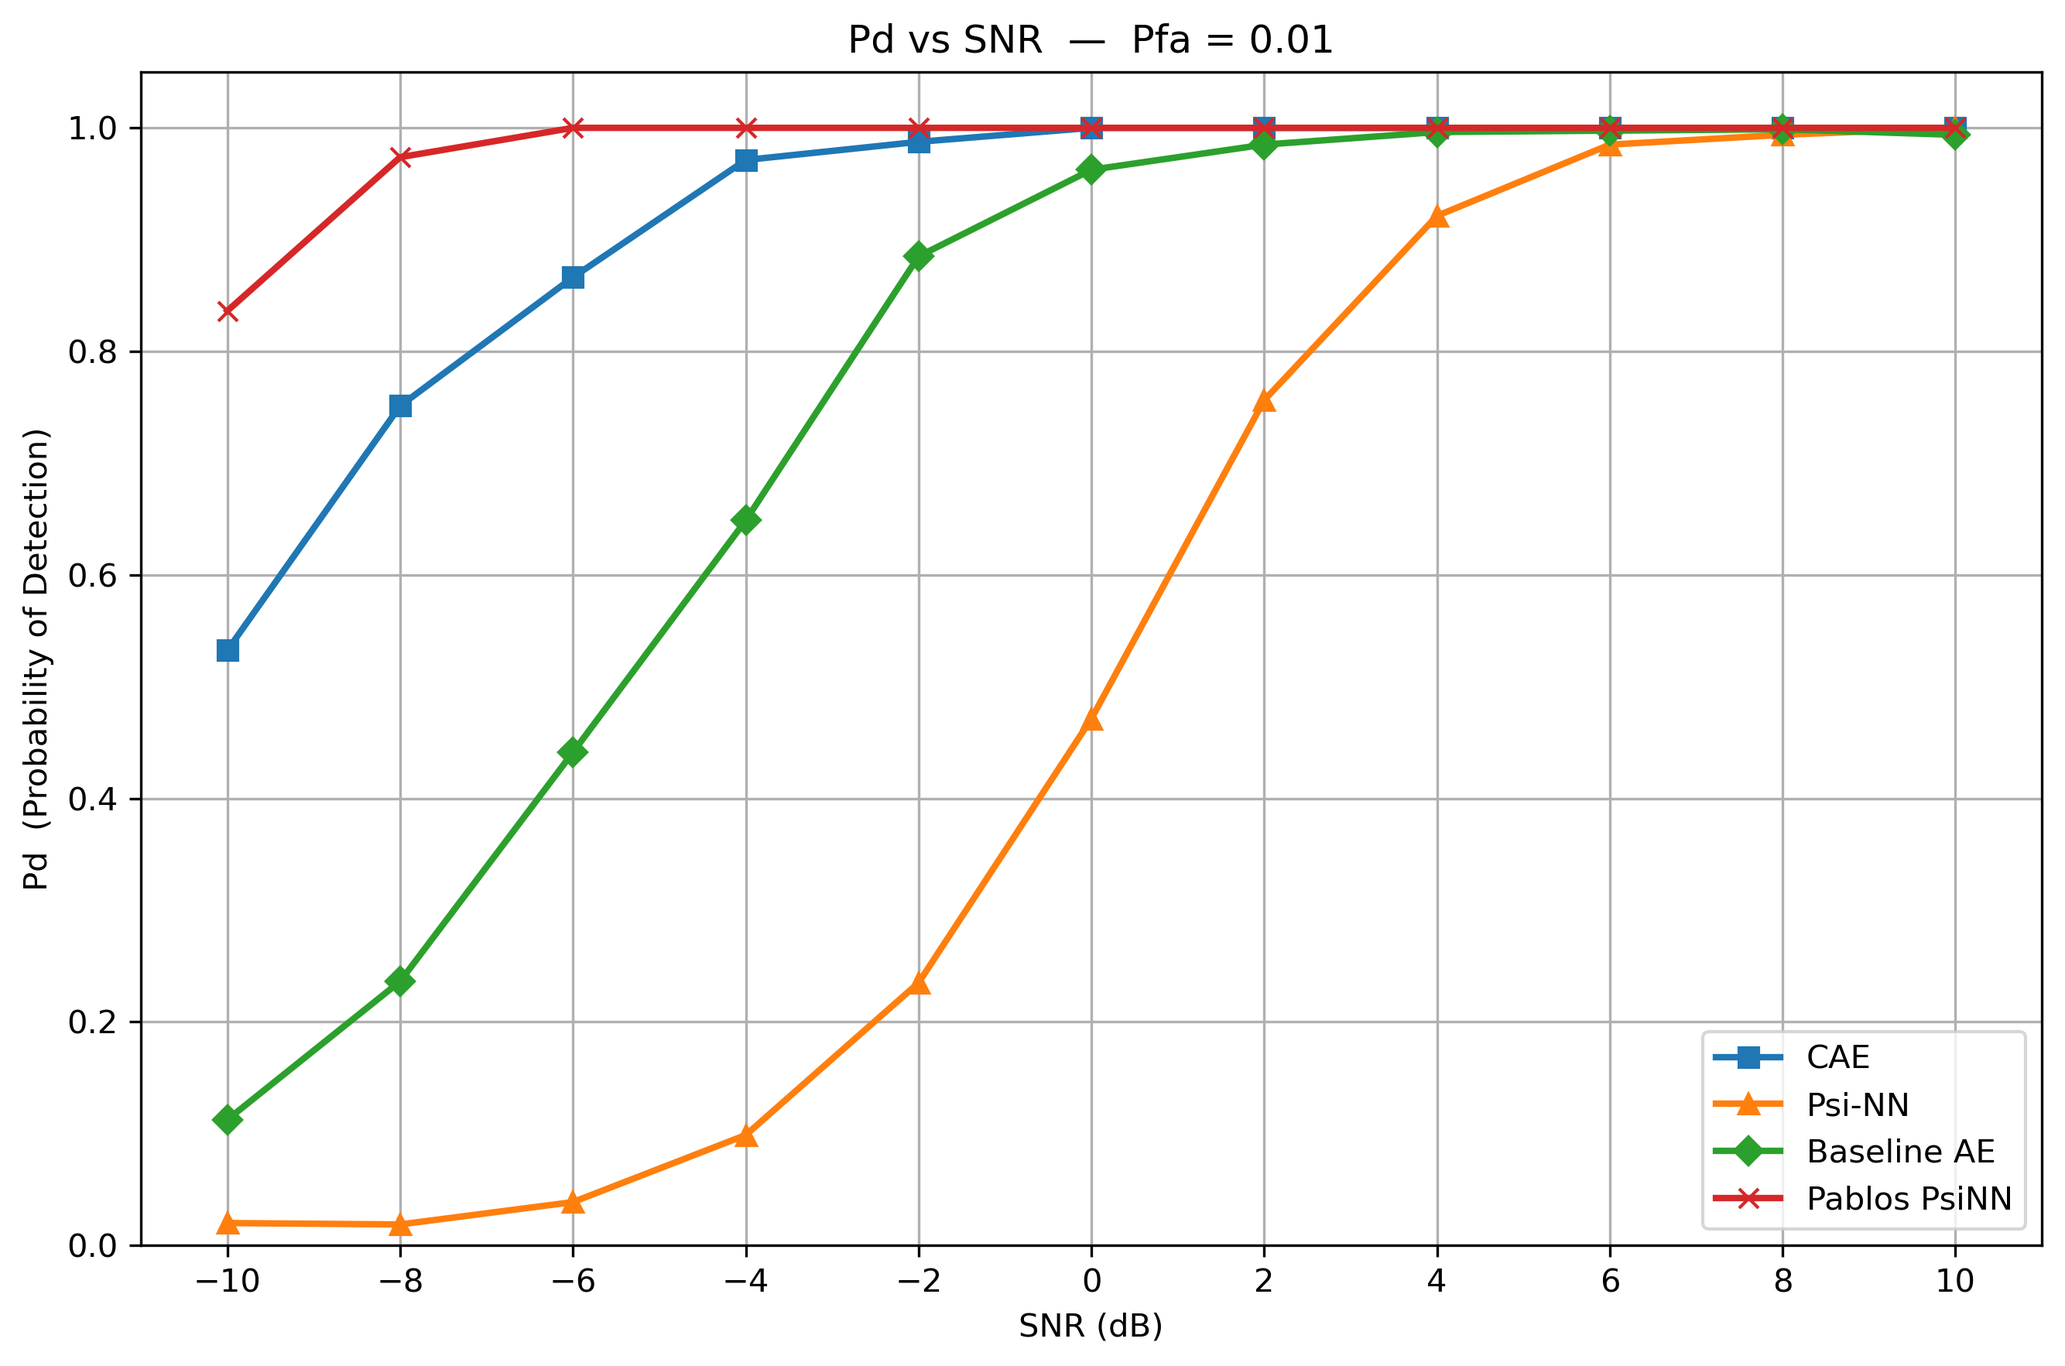
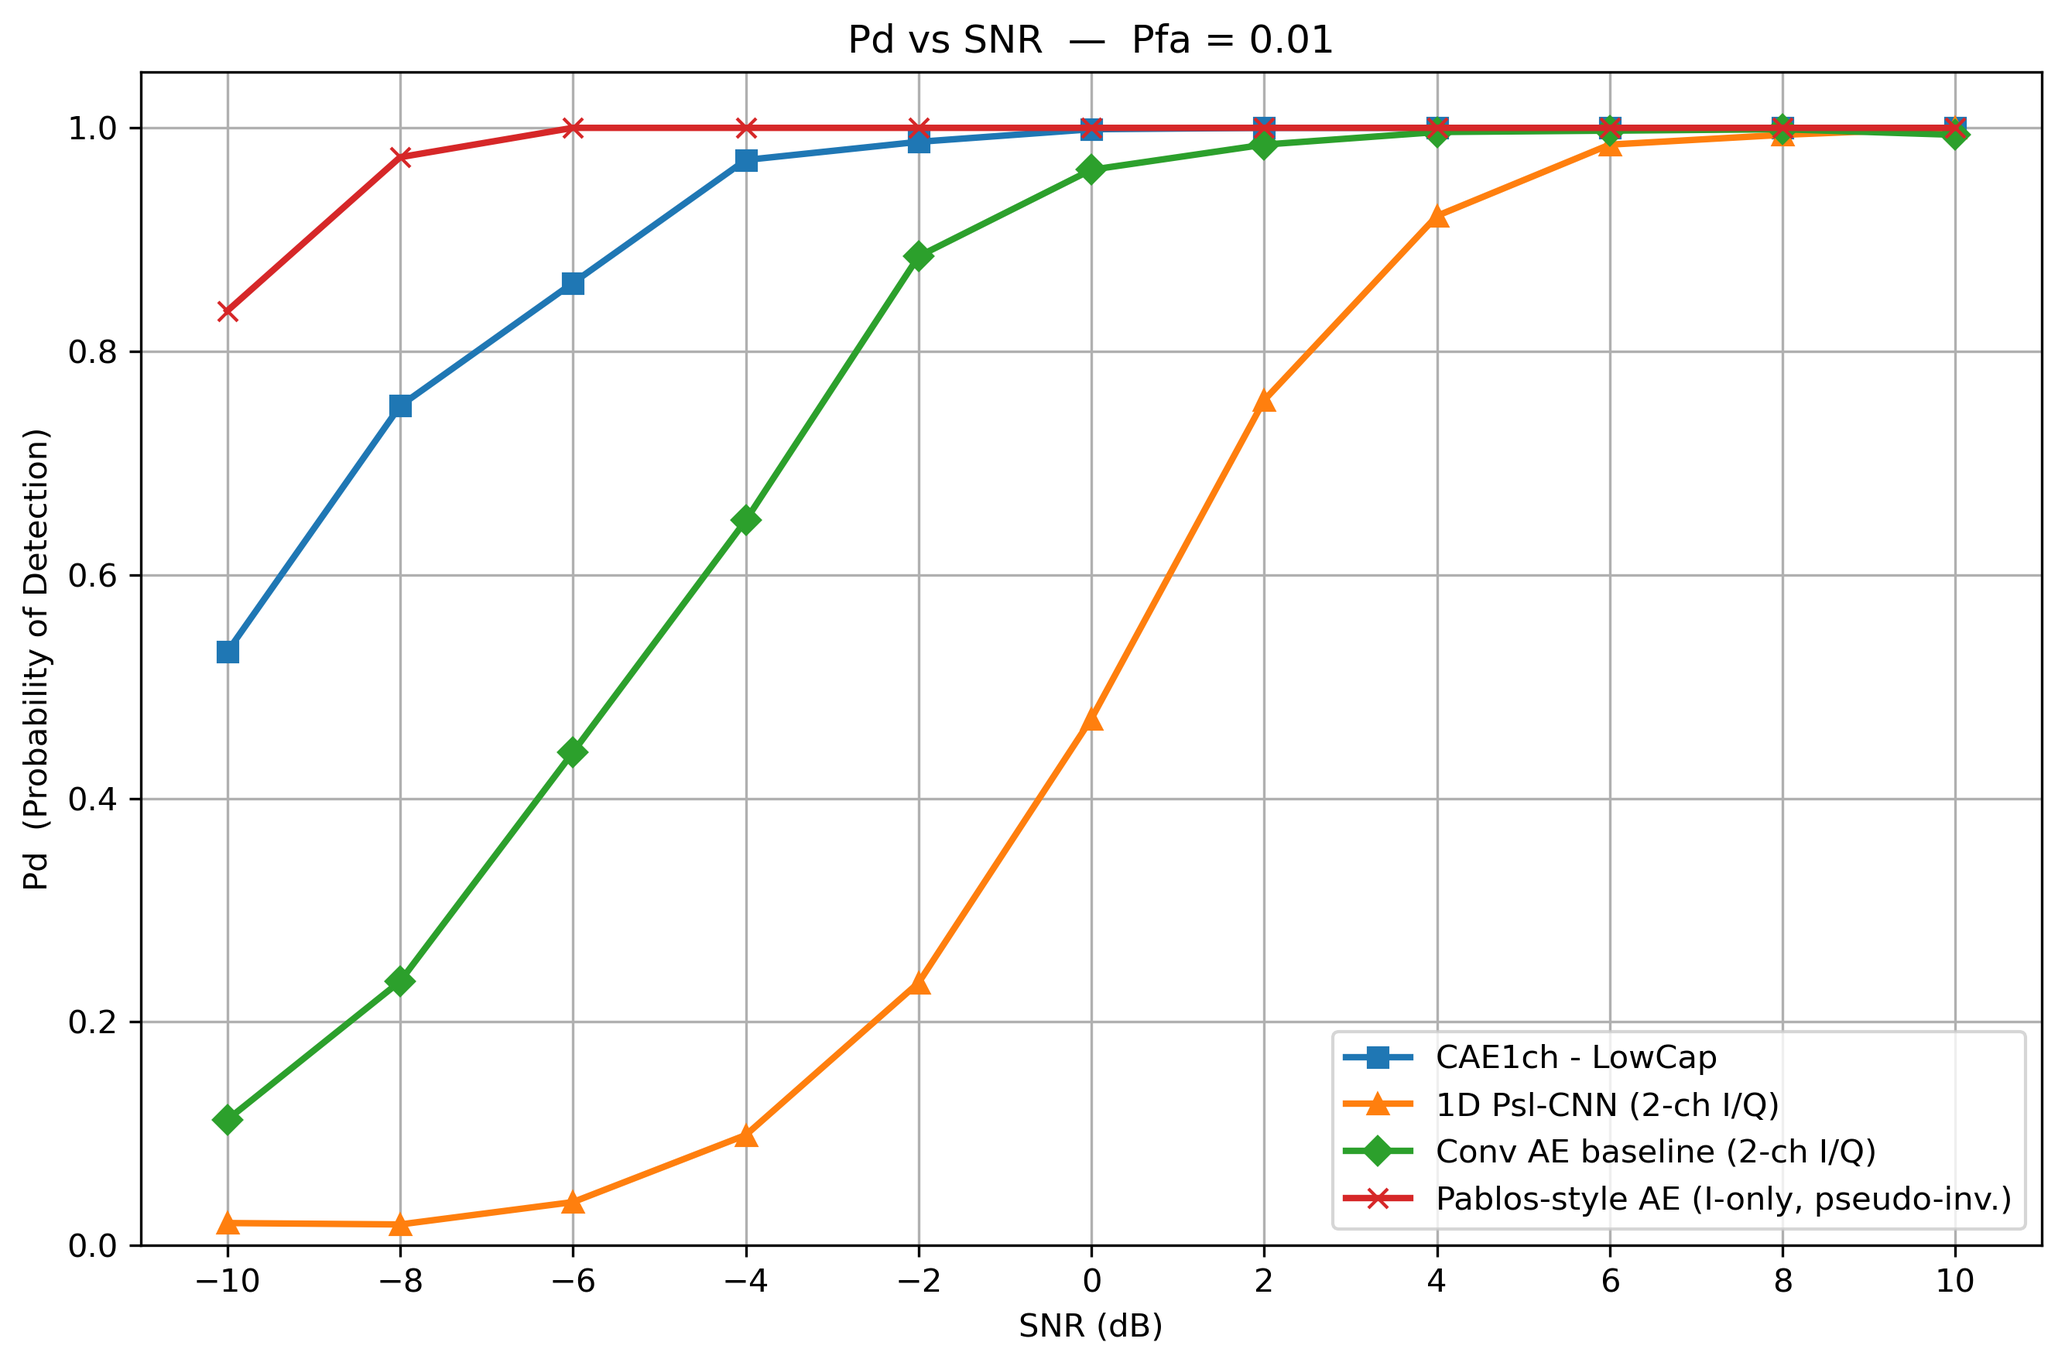
added verification script

Changed region(s): [[0.6533, 0.7479, 0.9644, 0.9037], [0.2489, 0.1558, 0.3111, 0.2493]]

diff --git a/verify_mod_auc_10db.py b/verify_mod_auc_10db.py
@@ -1,0 +1,142 @@
+"""
+Verify per-modulation AUC at -10 dB for the 1ch paper models:
+  CAE  = compare_A_lowcap-original.pth  (LowCapOriginal, Model A)
+  PsiNN = pablos_200epochs.pth          (AE_Pablos1d)
+
+Prints the AUC range at -10 dB for both models so the paper text can be checked.
+"""
+import os
+os.environ.setdefault("KMP_DUPLICATE_LIB_OK", "TRUE")
+
+import torch
+import numpy as np
+from sklearn.metrics import roc_curve, auc
+from scipy.stats import norm
+import torch.nn as nn
+import torch.nn.functional as F
+
+from psinn_layer_1d_pablos import AE_Pablos1d
+
+device = torch.device("cuda" if torch.cuda.is_available() else "cpu")
+
+# ── CAE model definition (LowCapOriginal = Model A) ───────────────────────────
+class LowCapOriginal(nn.Module):
+    def __init__(self):
+        super().__init__()
+        self.encoder = nn.Sequential(
+            nn.Conv1d(1,  16,  kernel_size=5, stride=2, padding=1),
+            nn.BatchNorm1d(16),  nn.LeakyReLU(0.2),
+            nn.Conv1d(16, 64,  kernel_size=5, stride=2, padding=1),
+            nn.BatchNorm1d(64),  nn.LeakyReLU(0.2),
+            nn.Conv1d(64, 128, kernel_size=5, stride=2, padding=1),
+            nn.BatchNorm1d(128), nn.LeakyReLU(0.2),
+        )
+        self.decoder = nn.Sequential(
+            nn.Upsample(scale_factor=2),
+            nn.Conv1d(128, 8,  kernel_size=5, stride=1, padding=1), nn.ReLU(),
+            nn.Upsample(scale_factor=2),
+            nn.Conv1d(8,   8,  kernel_size=5, stride=1, padding=1), nn.ReLU(),
+            nn.Upsample(scale_factor=2),
+            nn.Conv1d(8,   16, kernel_size=5, stride=1, padding=1), nn.ReLU(),
+            nn.Conv1d(16,  1,  kernel_size=5, stride=1, padding=1),
+        )
+
+    def forward(self, x):
+        out = self.decoder(self.encoder(x))
+        if out.shape[-1] != x.shape[-1]:
+            out = F.interpolate(out, size=x.shape[-1], mode='linear', align_corners=False)
+        return out
+
+
+# ── Load data ─────────────────────────────────────────────────────────────────
+test_dict   = torch.load("spectrum_data/test_data_full.pt", weights_only=False)
+test_data   = test_dict["data"][:, 0:1, :]        # 1ch (N, 1, 1024)
+test_labels = test_dict["labels"].numpy()
+test_snr    = test_dict["snrs"].numpy()
+test_mods   = np.array(test_dict["signals"])
+
+train_noise = torch.load("spectrum_data/train_noise.pt", weights_only=False)
+train_1ch   = train_noise[:, 0:1, :]
+
+# ── Load models ───────────────────────────────────────────────────────────────
+cae = LowCapOriginal().to(device)
+cae.load_state_dict(torch.load("spectrum_data/compare_A_lowcap-original.pth",
+                                weights_only=False, map_location=device))
+cae.eval()
+
+psinn = AE_Pablos1d(nf=16, k=5, use_dropout=True).to(device)
+psinn.load_state_dict(torch.load("spectrum_data/pablos_200epochs.pth",
+                                  weights_only=False, map_location=device))
+psinn.eval()
+
+
+# ── Beta computation ──────────────────────────────────────────────────────────
+def compute_beta(model, data, use_ae=False):
+    betas = []
+    with torch.no_grad():
+        for i in range(0, len(data), 256):
+            b = data[i:i+256].to(device)
+            recon = model.AE(b) if use_ae else model(b)
+            if recon.shape[-1] != b.shape[-1]:
+                recon = recon[..., :b.shape[-1]]
+            sse   = torch.sum((b - recon) ** 2, dim=[1, 2])
+            mean_x = torch.mean(b, dim=[1, 2], keepdim=True)
+            sst   = torch.sum((b - mean_x) ** 2, dim=[1, 2])
+            betas.append((1.0 - sse / (sst + 1e-8)).cpu())
+    return torch.cat(betas).numpy()
+
+
+# ── Thresholds from training noise ────────────────────────────────────────────
+beta_cae_train   = compute_beta(cae,   train_1ch, use_ae=False)
+beta_psinn_train = compute_beta(psinn, train_1ch, use_ae=True)
+
+pfa = 0.01
+gamma_cae   = np.mean(beta_cae_train)   + norm.ppf(1 - pfa) * np.std(beta_cae_train)
+gamma_psinn = np.mean(beta_psinn_train) + norm.ppf(1 - pfa) * np.std(beta_psinn_train)
+print(f"CAE   γ = {gamma_cae:.4f}")
+print(f"PsiNN γ = {gamma_psinn:.4f}")
+
+# ── Test beta scores ──────────────────────────────────────────────────────────
+beta_cae   = compute_beta(cae,   test_data, use_ae=False)
+beta_psinn = compute_beta(psinn, test_data, use_ae=True)
+
+# ── Per-modulation AUC at -10 dB ─────────────────────────────────────────────
+SNR_TARGET = -10
+snr_mask   = (test_snr == SNR_TARGET)
+
+modulations = ['bpsk', 'qpsk', '16qam', '32qam']
+
+print(f"\nPer-modulation AUC at SNR = {SNR_TARGET} dB  (Pfa = {pfa})")
+print(f"{'Modulation':<10}  {'CAE AUC':>9}  {'PsiNN AUC':>10}")
+print("─" * 35)
+
+cae_aucs, psinn_aucs = [], []
+
+for mod in modulations:
+    mask = snr_mask & ((test_mods == mod) | (test_labels == 0))
+    if mask.sum() == 0 or len(np.unique(test_labels[mask])) < 2:
+        print(f"{mod:<10}   N/A         N/A")
+        continue
+    fpr_c, tpr_c, _ = roc_curve(test_labels[mask], beta_cae[mask])
+    fpr_p, tpr_p, _ = roc_curve(test_labels[mask], beta_psinn[mask])
+    ac = auc(fpr_c, tpr_c)
+    ap = auc(fpr_p, tpr_p)
+    cae_aucs.append(ac)
+    psinn_aucs.append(ap)
+    print(f"{mod:<10}  {ac:>9.3f}  {ap:>10.3f}")
+
+print("─" * 35)
+print(f"{'Range':<10}  {min(cae_aucs):.3f}--{max(cae_aucs):.3f}  "
+      f"{min(psinn_aucs):.3f}--{max(psinn_aucs):.3f}")
+
+# ── Also print pooled modulation AUC (all SNR) for cross-check with Table 2 ──
+print(f"\nPooled per-modulation AUC (all SNR) — cross-check with Table 2")
+print(f"{'Modulation':<10}  {'CAE AUC':>9}  {'PsiNN AUC':>10}")
+print("─" * 35)
+for mod in modulations:
+    mask = (test_mods == mod) | (test_labels == 0)
+    if mask.sum() == 0 or len(np.unique(test_labels[mask])) < 2:
+        continue
+    fpr_c, tpr_c, _ = roc_curve(test_labels[mask], beta_cae[mask])
+    fpr_p, tpr_p, _ = roc_curve(test_labels[mask], beta_psinn[mask])
+    print(f"{mod:<10}  {auc(fpr_c, tpr_c):>9.3f}  {auc(fpr_p, tpr_p):>10.3f}")

diff --git a/plot_beta_distributions_composite.py b/plot_beta_distributions_composite.py
@@ -132,3 +132,124 @@ plt.subplots_adjust(bottom=0.18)
 plt.savefig("snr_distributions_all_-6dB.png", dpi=300, bbox_inches='tight')
 plt.close()
 print("Saved snr_distributions_all_-6dB.png")
+
+# 2-panel β histogram: CAE (LowCap-CAE1ch) and PsiNN (Psl-CAE1ch) only
+two_model_configs = [
+    ("LowCap-CAE1ch (CAE)",   b_cae, gamma_cae, "upper-tail"),
+    ("Psl-CAE1ch (PsiNN)",    b_pab, gamma_pab, "upper-tail"),
+]
+fig2, axes2 = plt.subplots(1, 2, figsize=(8, 3.8))
+for ax, (name, beta, gamma, tail) in zip(axes2, two_model_configs):
+    ax.hist(beta[h0], bins=40, alpha=0.65, color='steelblue',
+            label=r'$H_0$ (noise)', density=True)
+    ax.hist(beta[h1], bins=40, alpha=0.65, color='darkorange',
+            label=r'$H_1$ (signal)', density=True)
+    ax.axvline(gamma, color='red', linestyle='--', linewidth=1.5,
+               label=rf'$\gamma$  ($P_{{\rm fa}}={TARGET_PFA}$)')
+    ax.set_title(name, fontsize=10, fontweight='bold')
+    ax.set_xlabel(r'$\beta$ score', fontsize=9)
+    ax.set_ylabel('Density', fontsize=9)
+    ax.legend(fontsize=7.5, loc='upper left')
+    ax.grid(True, alpha=0.3)
+    ax.text(0.5, -0.20, f'({tail})', transform=ax.transAxes,
+            ha='center', fontsize=8, style='italic', color='gray')
+fig2.suptitle(
+    rf'$\beta$-score distributions at SNR $= {TARGET_SNR:+d}$\,dB'
+    rf'  ($P_{{\rm fa}} = {TARGET_PFA}$)',
+    fontsize=11
+)
+plt.tight_layout()
+plt.subplots_adjust(bottom=0.18)
+plt.savefig("beta_hist_cae_psinn.png", dpi=300, bbox_inches='tight')
+plt.close()
+print("Saved beta_hist_cae_psinn.png")
+
+# 2-panel MMSE (1-β) histogram: same two models
+fig3, axes3 = plt.subplots(1, 2, figsize=(8, 3.8))
+for ax, (name, beta, gamma, tail) in zip(axes3, two_model_configs):
+    mmse_h0 = 1.0 - beta[h0]
+    mmse_h1 = 1.0 - beta[h1]
+    mmse_thresh = 1.0 - gamma
+    ax.hist(mmse_h0, bins=40, alpha=0.65, color='steelblue',
+            label=r'$H_0$ (noise)', density=True)
+    ax.hist(mmse_h1, bins=40, alpha=0.65, color='darkorange',
+            label=r'$H_1$ (signal)', density=True)
+    ax.axvline(mmse_thresh, color='red', linestyle='--', linewidth=1.5,
+               label=rf'$\tau$  ($P_{{\rm fa}}={TARGET_PFA}$)')
+    ax.set_title(name, fontsize=10, fontweight='bold')
+    ax.set_xlabel(r'MMSE score ($1 - \beta$)', fontsize=9)
+    ax.set_ylabel('Density', fontsize=9)
+    ax.legend(fontsize=7.5, loc='upper right')
+    ax.grid(True, alpha=0.3)
+    ax.text(0.5, -0.20, '(lower-tail on MMSE = upper-tail on β)',
+            transform=ax.transAxes, ha='center', fontsize=7.5,
+            style='italic', color='gray')
+fig3.suptitle(
+    rf'MMSE ($1-\beta$) distributions at SNR $= {TARGET_SNR:+d}$\,dB'
+    rf'  ($P_{{\rm fa}} = {TARGET_PFA}$)',
+    fontsize=11
+)
+plt.tight_layout()
+plt.subplots_adjust(bottom=0.18)
+plt.savefig("mmse_hist_cae_psinn.png", dpi=300, bbox_inches='tight')
+plt.close()
+print("Saved mmse_hist_cae_psinn.png")
+
+# Multi-SNR 2×2 figures: one per SNR value (-6, 0, +6 dB)
+# Rows: β (top), MMSE (bottom)   Columns: LowCap-CAE1ch, Psl-CAE1ch
+for snr_val in [-6, 0, 6]:
+    snr_m = (snrs == snr_val)
+    h0_s  = snr_m & (labels == 0)
+    h1_s  = snr_m & (labels == 1)
+    if h0_s.sum() == 0 or h1_s.sum() == 0:
+        print(f"SNR={snr_val:+d} dB — not enough samples, skipping.")
+        continue
+
+    fig, axes = plt.subplots(2, 2, figsize=(10, 7))
+    fig.suptitle(
+        rf'$\beta$ and MMSE distributions at SNR $= {snr_val:+d}$\,dB'
+        rf'  ($P_{{\rm fa}} = {TARGET_PFA}$)',
+        fontsize=12
+    )
+
+    panel_labels = [['(a)', '(b)'], ['(c)', '(d)']]
+
+    for col, (name, beta, gamma) in enumerate([
+        ("LowCap-CAE1ch (CAE)",  b_cae, gamma_cae),
+        ("Psl-CAE1ch (PsiNN)",   b_pab, gamma_pab),
+    ]):
+        # β row
+        axes[0, col].hist(beta[h0_s], bins=40, alpha=0.65, color='steelblue',
+                          label=r'$H_0$ (noise)', density=True)
+        axes[0, col].hist(beta[h1_s], bins=40, alpha=0.65, color='darkorange',
+                          label=r'$H_1$ (signal)', density=True)
+        axes[0, col].axvline(gamma, color='red', linestyle='--', linewidth=1.5,
+                             label=rf'$\gamma$  ($P_{{\rm fa}}={TARGET_PFA}$)')
+        axes[0, col].set_title(name, fontsize=10, fontweight='bold')
+        axes[0, col].set_xlabel(r'$\beta$ score', fontsize=9)
+        axes[0, col].set_ylabel('Density', fontsize=9)
+        axes[0, col].legend(fontsize=7.5)
+        axes[0, col].grid(True, alpha=0.3)
+        axes[0, col].text(0.02, 0.97, panel_labels[0][col], transform=axes[0, col].transAxes,
+                          fontsize=11, fontweight='bold', va='top', ha='left')
+
+        # MMSE row (1 − β)
+        axes[1, col].hist(1 - beta[h0_s], bins=40, alpha=0.65, color='steelblue',
+                          label=r'$H_0$ (noise)', density=True)
+        axes[1, col].hist(1 - beta[h1_s], bins=40, alpha=0.65, color='darkorange',
+                          label=r'$H_1$ (signal)', density=True)
+        axes[1, col].axvline(1 - gamma, color='red', linestyle='--', linewidth=1.5,
+                             label=rf'$\tau$  ($P_{{\rm fa}}={TARGET_PFA}$)')
+        axes[1, col].set_title(name, fontsize=10, fontweight='bold')
+        axes[1, col].set_xlabel(r'MMSE ($1 - \beta$)', fontsize=9)
+        axes[1, col].set_ylabel('Density', fontsize=9)
+        axes[1, col].legend(fontsize=7.5)
+        axes[1, col].grid(True, alpha=0.3)
+        axes[1, col].text(0.02, 0.97, panel_labels[1][col], transform=axes[1, col].transAxes,
+                          fontsize=11, fontweight='bold', va='top', ha='left')
+
+    plt.tight_layout()
+    fname = f"beta_mmse_cae_psinn_{snr_val:+d}dB.png"
+    plt.savefig(fname, dpi=300, bbox_inches='tight')
+    plt.close()
+    print(f"Saved {fname}")

diff --git a/compare_lowcap_convae.py b/compare_lowcap_convae.py
@@ -239,9 +239,65 @@ def evaluate(model, train_noise, test_data, test_labels, test_snrs, device,
 
 # ── Main ──────────────────────────────────────────────────────────────────────
 
+import argparse
+import matplotlib.pyplot as plt
+
+
+def _plot_ablation(results, snr_points, out_path='ablation_pd_vs_snr.png'):
+    markers = ['o', 's', '^', 'D', 'x']
+    plt.figure(figsize=(8, 5.5))
+    for (tag, r), m in zip(results.items(), markers):
+        short = tag
+        plt.plot(snr_points, r['pd'], marker=m, linewidth=2, label=f'Variant {short}')
+    plt.xlabel('SNR (dB)')
+    plt.ylabel(r'$P_d$  ($\beta > \gamma$,  $H_1$)')
+    plt.title(r'Ablation: $P_d$ vs SNR — A→E architectural changes  ($P_{\rm fa}=0.01$)')
+    plt.xticks(snr_points)
+    plt.ylim(0, 1.05)
+    plt.grid(True, alpha=0.35)
+    plt.legend(fontsize=9)
+    plt.tight_layout()
+    plt.savefig(out_path, dpi=300, bbox_inches='tight')
+    plt.close()
+    print(f"Saved {out_path}")
+
+
 if __name__ == '__main__':
+    parser = argparse.ArgumentParser()
+    parser.add_argument('--plot-only', action='store_true',
+                        help='Load saved weights and regenerate ablation_pd_vs_snr.png without retraining')
+    args = parser.parse_args()
+
     device = torch.device('cuda' if torch.cuda.is_available() else 'cpu')
     print(f"Device: {device}\n")
+
+    if args.plot_only:
+        # Load data and evaluate saved checkpoints without retraining
+        train_2ch = torch.load('spectrum_data/train_noise.pt', weights_only=False)
+        train_1ch = train_2ch[:, 0:1, :]
+        test_dict   = torch.load('spectrum_data/test_data_full.pt', weights_only=False)
+        test_2ch    = test_dict['data']
+        test_1ch    = test_2ch[:, 0:1, :]
+        test_labels = test_dict['labels'].numpy()
+        test_snrs   = test_dict['snrs'].numpy()
+
+        ckpt_map = {
+            'A': ('spectrum_data/compare_A_lowcap-original.pth', LowCapOriginal(), train_1ch, test_1ch),
+            'B': ('spectrum_data/compare_B_lowcap-adam.pth',     LowCapOriginal(), train_1ch, test_1ch),
+            'C': ('spectrum_data/compare_C_lowcap-symdec.pth',   LowCapSymDec(),   train_1ch, test_1ch),
+            'D': ('spectrum_data/compare_D_convae-1ch.pth',      ConvAE(in_ch=1),  train_1ch, test_1ch),
+            'E': ('spectrum_data/compare_E_convae-2ch.pth',      ConvAE(in_ch=2),  train_2ch, test_2ch),
+        }
+        snr_points = [-10, -8, -6, -4, -2, 0, 2, 4, 6, 8, 10]
+        results_plot = {}
+        for tag, (ckpt, model, tr_noise, te_data) in ckpt_map.items():
+            model.load_state_dict(torch.load(ckpt, weights_only=False, map_location=device))
+            model = model.to(device)
+            res = evaluate(model, tr_noise, te_data, test_labels, test_snrs, device)
+            results_plot[tag] = res
+            print(f"Variant {tag}: AUC={res['auc']:.4f}  gamma={res['gamma']:.4f}")
+        _plot_ablation(results_plot, snr_points)
+        import sys; sys.exit(0)
 
     # Data
     train_2ch = torch.load('spectrum_data/train_noise.pt', weights_only=False)
@@ -335,3 +391,5 @@ if __name__ == '__main__':
     Path('spectrum_data/compare_lowcap_convae_report.txt').write_text(
         report + '\n')
     print('\nSaved spectrum_data/compare_lowcap_convae_report.txt')
+
+    _plot_ablation(results, snr_points)

diff --git a/plot_pd_vs_snr.py b/plot_pd_vs_snr.py
@@ -46,3 +46,22 @@ plt.tight_layout()
 plt.savefig("pd_vs_snr_combined.png", dpi=300, bbox_inches='tight')
 plt.close()
 print("Saved pd_vs_snr_combined.png")
+
+# 2-curve paper figure: LowCap-CAE1ch and Psl-CAE1ch (1ch pseudo-inv.) only
+if pd_pablos is None:
+    print("WARNING: pd_vs_snr_pablos.npy not found — run evaluate_pablos.py first")
+else:
+    plt.figure(figsize=(7, 5))
+    plt.plot(snr_points, pd_cae,    marker="s", linewidth=2, label="LowCap-CAE1ch")
+    plt.plot(snr_points, pd_pablos, marker="^", linewidth=2, label="Psl-CAE1ch")
+    plt.xlabel('SNR (dB)')
+    plt.ylabel(r'$P_d$  (Probability of Detection)')
+    plt.title(r'$P_d$ vs SNR  —  $P_{\rm fa} = 0.01$')
+    plt.legend()
+    plt.grid(True)
+    plt.xticks(snr_points)
+    plt.ylim(0, 1.05)
+    plt.tight_layout()
+    plt.savefig("pd_vs_snr_cae_psinn.png", dpi=300, bbox_inches='tight')
+    plt.close()
+    print("Saved pd_vs_snr_cae_psinn.png")
